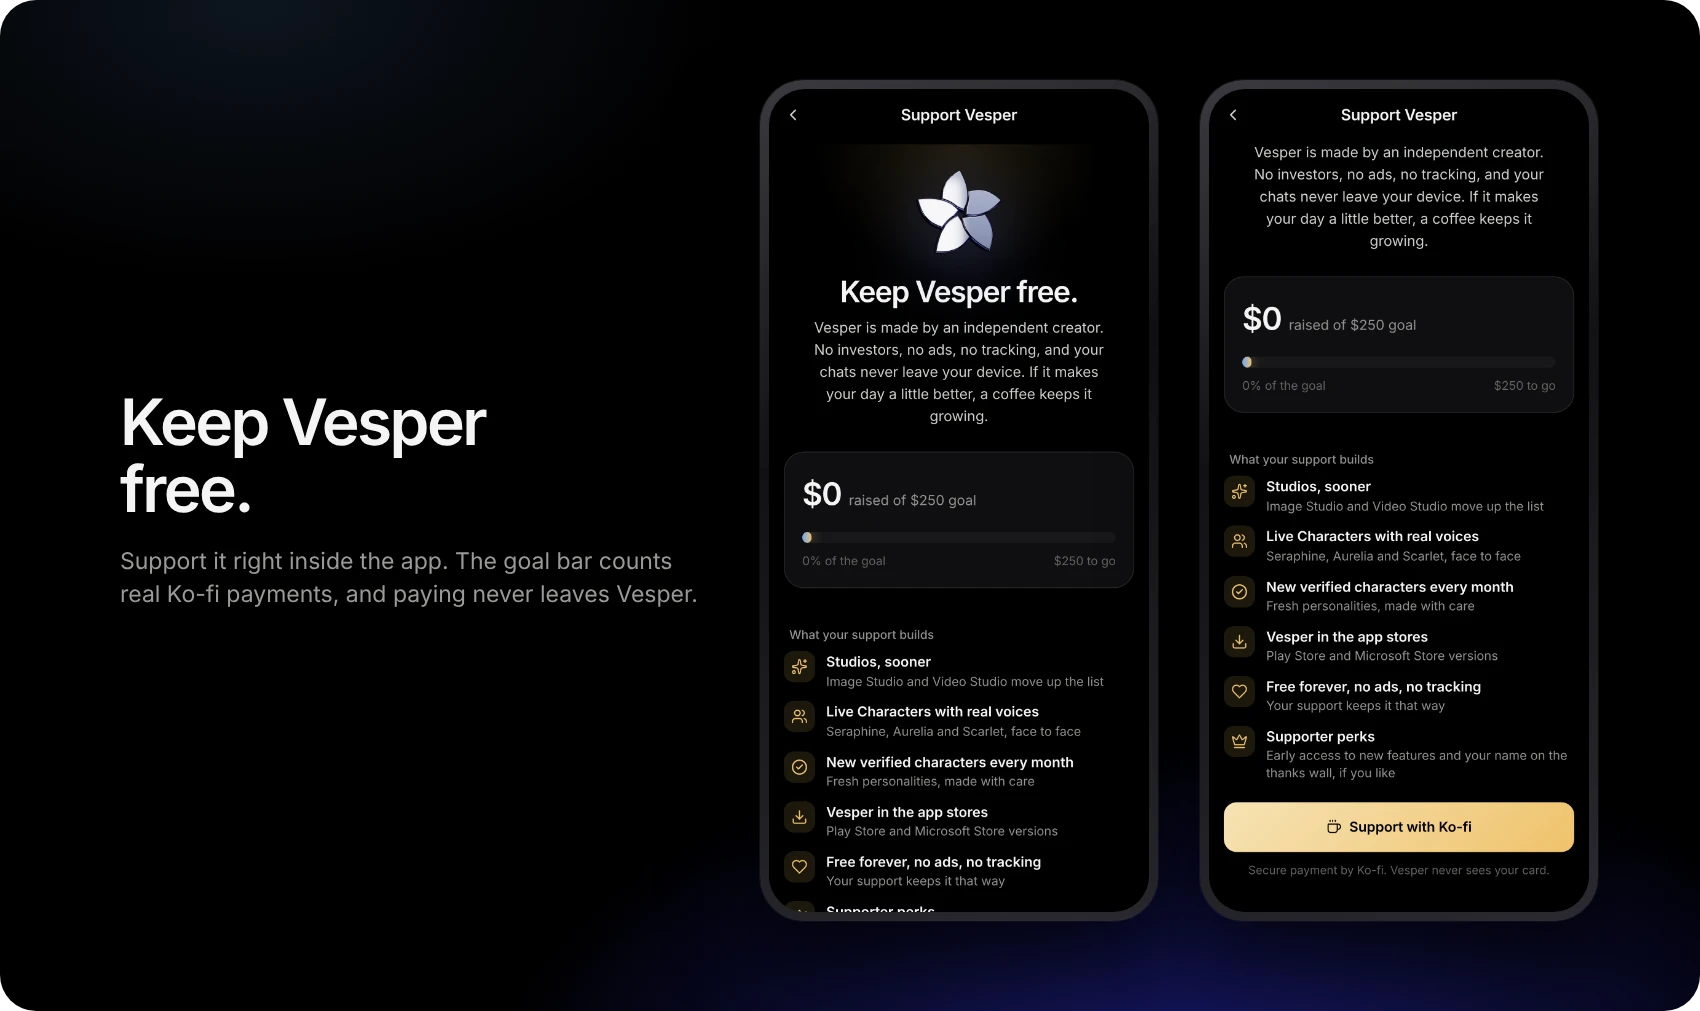
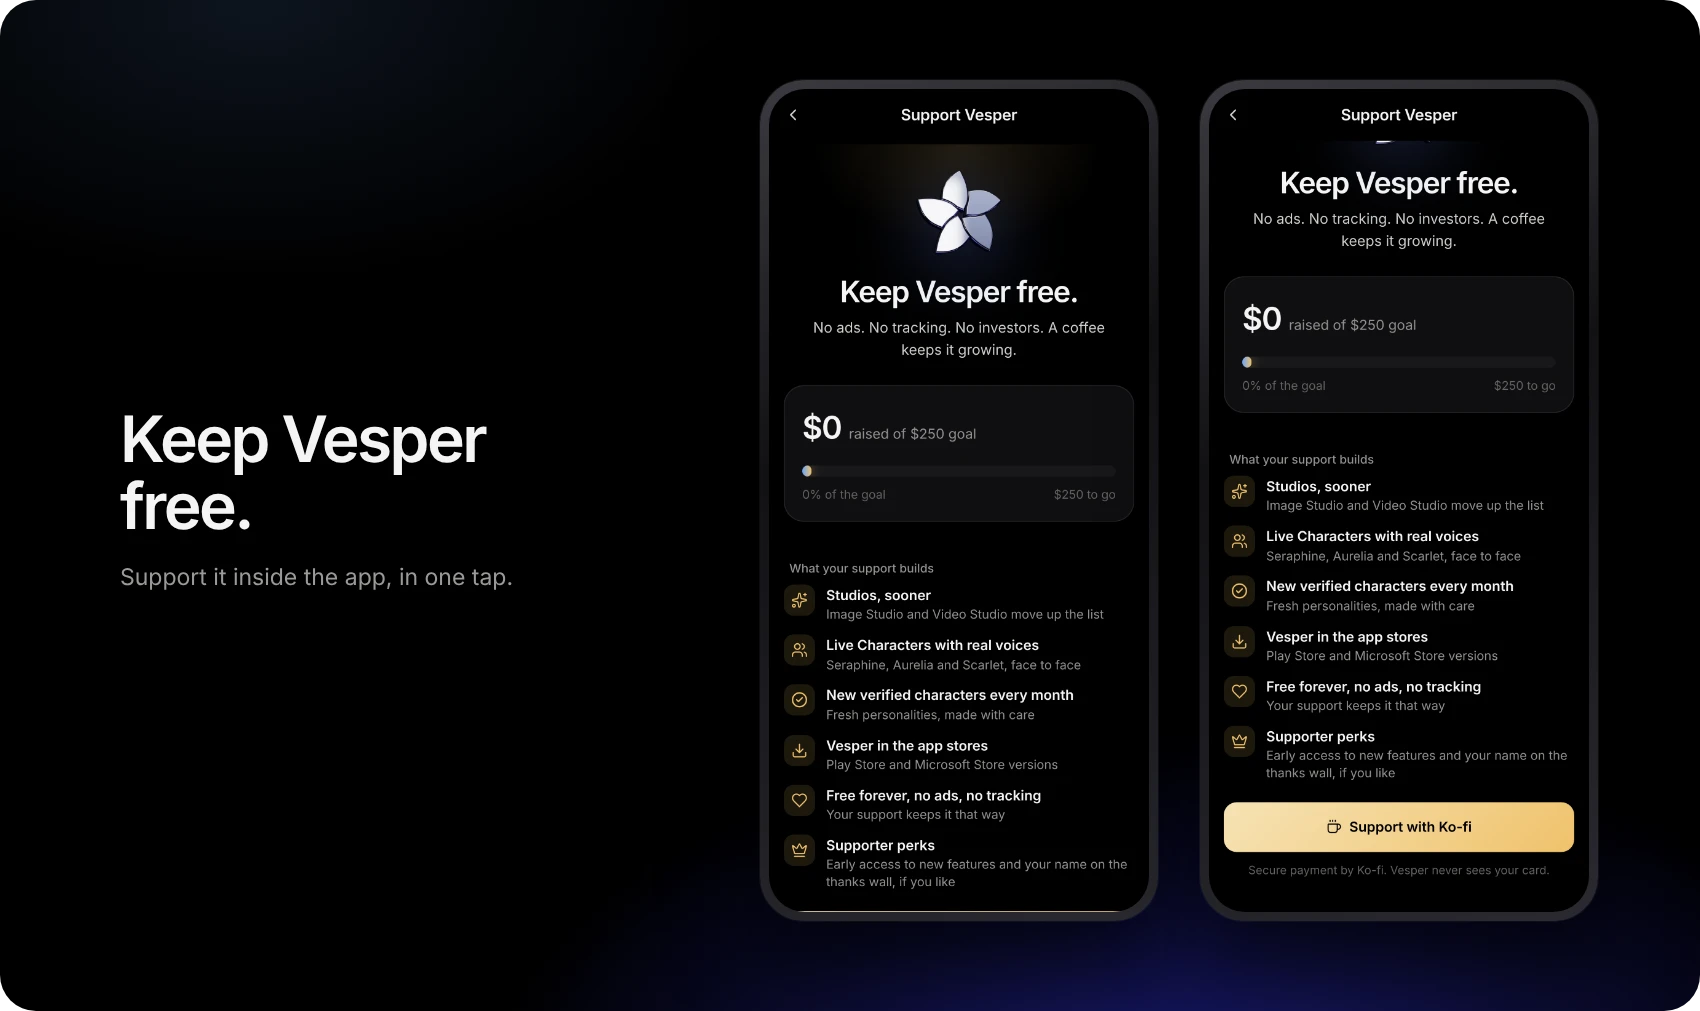
Support: shorter message
Claude-Session: https://claude.ai/code/session_01Pqes7qMJVCgUAH6HtcUGzX

diff --git a/index.html b/index.html
@@ -1994,7 +1994,7 @@ function openSupport(swap){
     const goalSpan = h("span", {text:"raised of $" + SUPPORT.goal + " goal"});
     w.append(h("div", {class:"sup-hero"}, h("img", {src:iconFile("mark.webp"), alt:"", width:"360", height:"352"}),
       h("h2", {text:"Keep Vesper free."}),
-      h("p", {text:"Vesper is made by an independent creator. No investors, no ads, no tracking, and your chats never leave your device. If it makes your day a little better, a coffee keeps it growing."})),
+      h("p", {text:"No ads. No tracking. No investors. A coffee keeps it growing."})),
       h("div", {class:"goal"}, h("div", {class:"amt"}, amt, goalSpan), h("div", {class:"bar", role:"progressbar", "aria-label":"Support goal", "aria-valuemin":"0", "aria-valuemax":String(SUPPORT.goal), "aria-valuenow":String(SUPPORT.raised)}, fill), meta),
       glabel("What your support builds"),
       h("ul", {class:"perks"}, ...PERKS.map(([i, t, d]) => h("li", {}, h("span", {class:"pi", html:ic(i)}), h("div", {}, h("b", {text:t}), h("span", {text:d}))))),

diff --git a/docs/art/make-art.js b/docs/art/make-art.js
@@ -289,7 +289,7 @@ async function compose(browser, base) {
   await render("support.webp", artPage(`<div style="position:relative;padding:80px 120px 90px;overflow:hidden"><div class="glow"></div>
     <div style="position:relative;display:grid;grid-template-columns:1fr 380px 380px;gap:60px;align-items:center">
       <div><div style="font-size:64px;font-weight:600;letter-spacing:-.04em;line-height:1.04">Keep Vesper<br>free.</div>
-        <div style="font-size:23px;color:#9a9a98;margin-top:22px;line-height:1.45">Support it right inside the app. The goal bar counts real Ko-fi payments, and paying never leaves Vesper.</div></div>
+        <div style="font-size:23px;color:#9a9a98;margin-top:22px;line-height:1.45">Support it inside the app, in one tap.</div></div>
       ${phone("support", 380)}${phone("support-2", 380)}</div></div>`, 1700), 1700);
 
   const fin = ["chrome", "gold", "rose", "graphite", "midnight", "emerald"];
